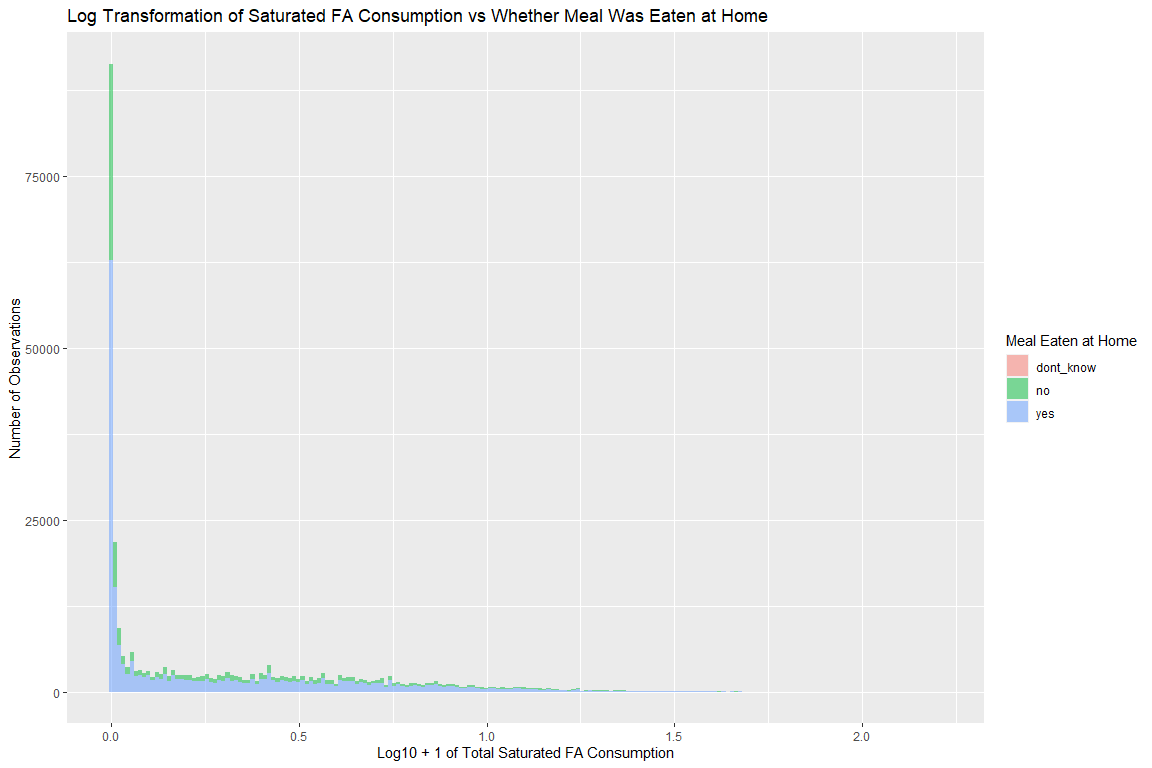
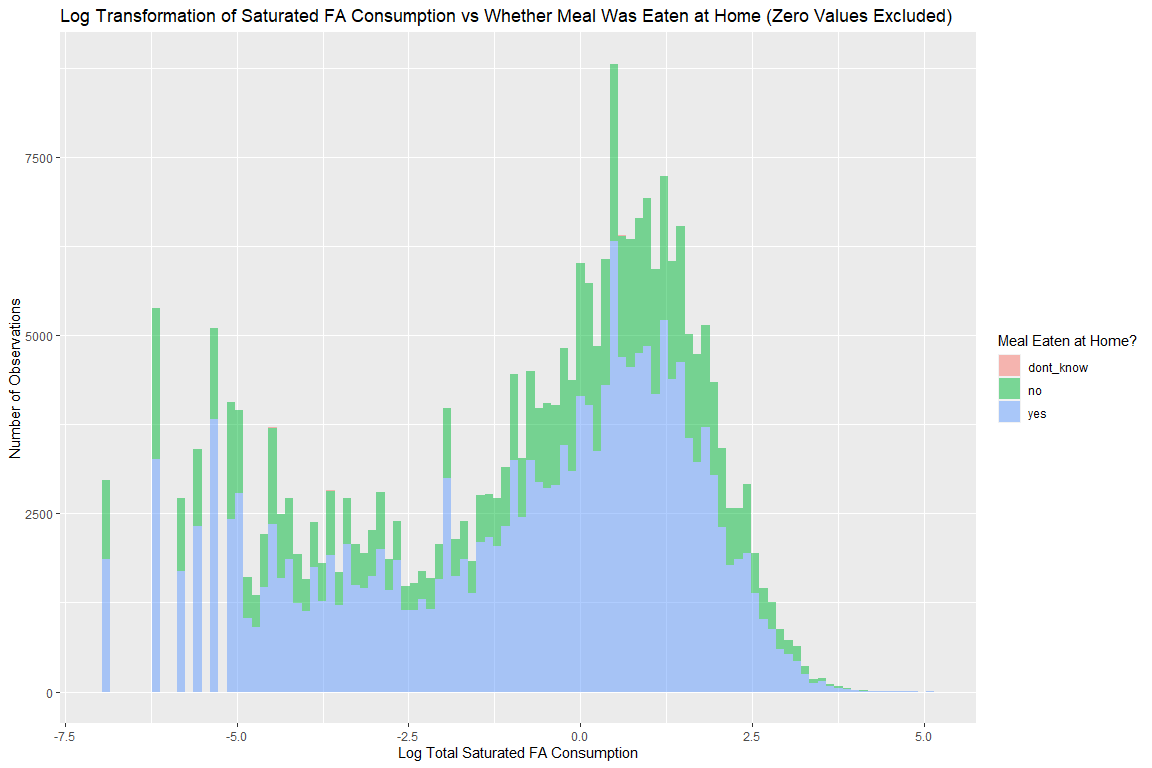
editing histograms and plot descriptions

diff --git a/README.md b/README.md
@@ -315,41 +315,34 @@ saturated fatty acid consumption: first, that consumption is higher on
 average for males than females. Secondly, the trend in average
 consumption increases until age 18, and then decreases with age. Lastly,
 the range of values tends to increase with increasing age, especially so
-for males.
+for males, made evident by the width of the distributions decreasing
+with increasing age.
 
 <img src="README_files/figure-gfm/sugar and sat fa consumption by ethnicity-1.png" style="display: block; margin: auto;" /><img src="README_files/figure-gfm/sugar and sat fa consumption by ethnicity-2.png" style="display: block; margin: auto;" />
 In grouping average sugar and saturated fatty acid consumption by
 ethnicity, there is not much variation between ethnicity groups and
-sugar consumption, however, the lowest average sugar and saturated fatty
-acid consumption and range of values is lowest in the non hispanic asian
-group, and highest in non hispanic black group.
+sugar consumption. The lowest average sugar and saturated fatty acid
+consumption and range of values is lowest in the non-hispanic asian
+group, and highest in non-hispanic white group. Again, the average
+consumption for males is higher than that of females.
 
 #### Does the source of the food or whether the meal was eaten at home have an effect?
 
 <img src="README_files/figure-gfm/plot meal eaten at home-1.png" style="display: block; margin: auto;" /><img src="README_files/figure-gfm/plot meal eaten at home-2.png" style="display: block; margin: auto;" />
-The plots above graph the log normalized distribution of sugar and
-saturated fatty acid in foods eaten at home, not at home and unknown. It
-can be seen that the distributions of foods eaten at home and not at
-home are essentially the same for both sugar and saturated fatty acids.
+The distributions above describe the amount of sugar and saturated fa in
+individual food items grouped by whether the item was eaten at home or
+not. Food items containing zero sugar or saturated fa were excluded and
+the x-axis was log transformed to account for few items having high
+amounts of sugar or saturated fa. It can be observed that whether the
+food item was consumed at home or not does not have a significant effect
+on sugar or saturated fa consumption, as the distributions for “yes” and
+“no” are very similar in both plots.
 
 <img src="README_files/figure-gfm/plot source of food-1.png" style="display: block; margin: auto;" /><img src="README_files/figure-gfm/plot source of food-2.png" style="display: block; margin: auto;" />
 
 #### What foods are associated with high sugar or high saturated fatty acids?
 
-    ##   95% 
-    ## 33.11
-
 <img src="README_files/figure-gfm/unnamed-chunk-1-1.png" style="display: block; margin: auto;" />
-
-    ##      0%      5%     10%     15%     20%     25%     30%     35%     40%     45% 
-    ##   0.000   0.000   0.000   0.000   0.002   0.006   0.013   0.031   0.071   0.178 
-    ##     50%     55%     60%     65%     70%     75%     80%     85%     90%     95% 
-    ##   0.362   0.572   0.892   1.246   1.646   2.205   2.948   3.893   5.458   8.511 
-    ##    100% 
-    ## 160.279
-
-    ##   95% 
-    ## 8.511
 
 <img src="README_files/figure-gfm/unnamed-chunk-2-1.png" style="display: block; margin: auto;" />
 
